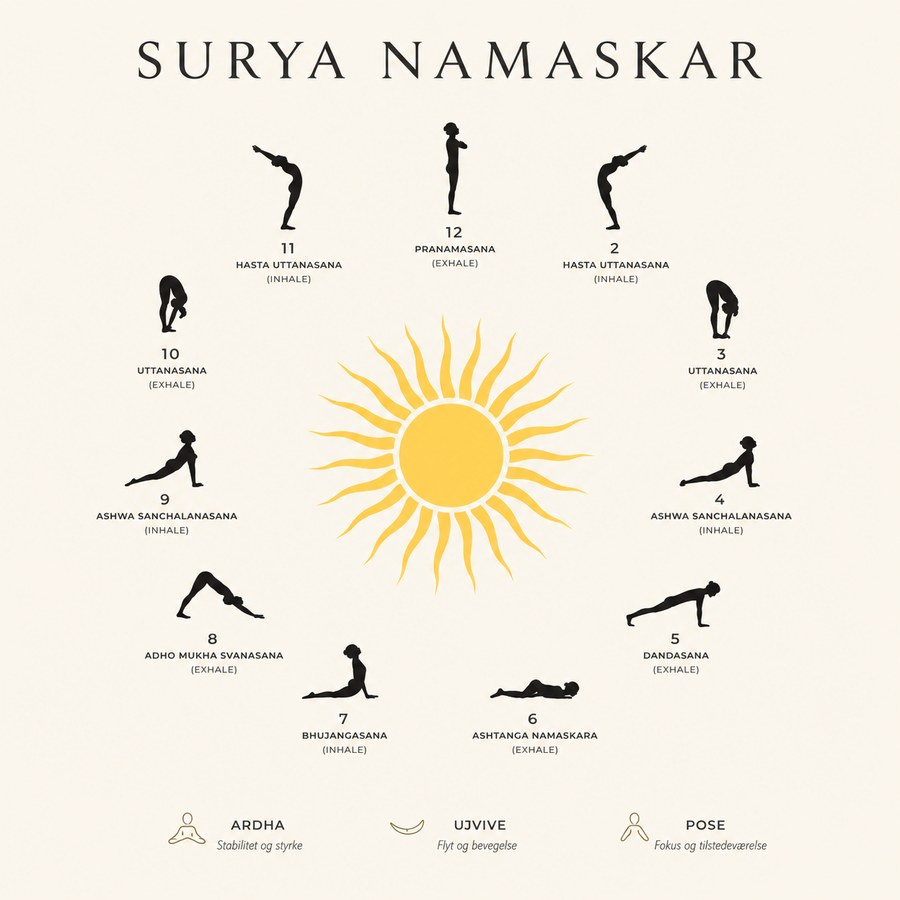
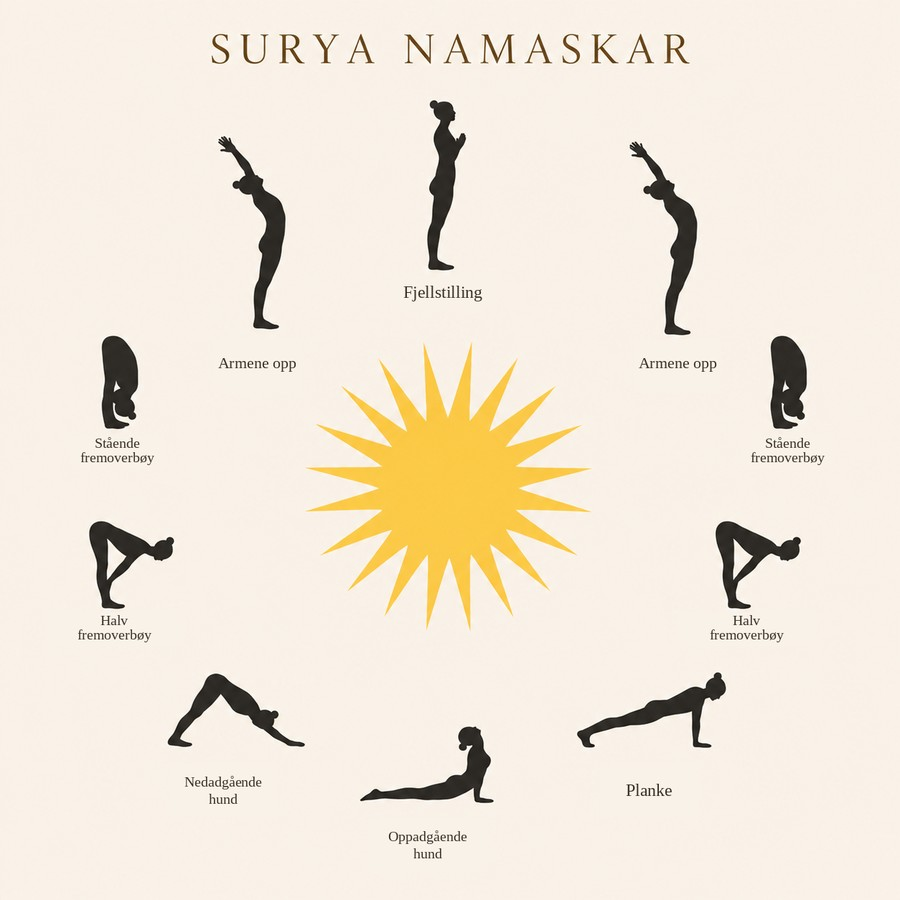
Bytt til brukerens nye Surya Namaskar-plakat med norske stillingsnavn
Erstattet plakaten med den oppdaterte versjonen brukeren laget, og
byttet ut de engelske/sanskrit-etikettene under hver figur med
norske navn (Fjellstilling, Armene opp, Stående fremoverbøy, Halv
fremoverbøy, Nedadgående hund, Oppadgående hund, Planke), i samme
skrifttype og stil som resten av plakaten.

Claude-Session: https://claude.ai/code/session_012VkUuEp7sS3cm2zQC4Uhct

diff --git a/solhilsen.html b/solhilsen.html
@@ -181,8 +181,8 @@
 
   <section class="card">
     <h2>Solhilsen — Surya Namaskar</h2>
-    <p class="desc">De 12 øvelsene i rekkefølge, med klokken rundt sola. Følg pusten gjennom hver stilling og gjenta gjerne 3–5 runder.</p>
-    <img class="sun-wheel-image" src="images/solhilsen-surya-namaskar.jpg" alt="Surya Namaskar — de 12 øvelsene i solhilsen illustrert i sirkel rundt en sol, nummerert 1 til 12 med pusteretning (inhale/exhale) for hver stilling.">
+    <p class="desc">Stillingene i solhilsen, illustrert rundt sola — flere av dem gjøres to ganger i sekvensen, speilvendt på hver side. Følg pusten gjennom hver stilling og gjenta gjerne 3–5 runder.</p>
+    <img class="sun-wheel-image" src="images/solhilsen-surya-namaskar.jpg" alt="Surya Namaskar — stillingene i solhilsen illustrert i sirkel rundt en sol, med norsk navn under hver stilling.">
   </section>
 
   <section class="card caution-card">
